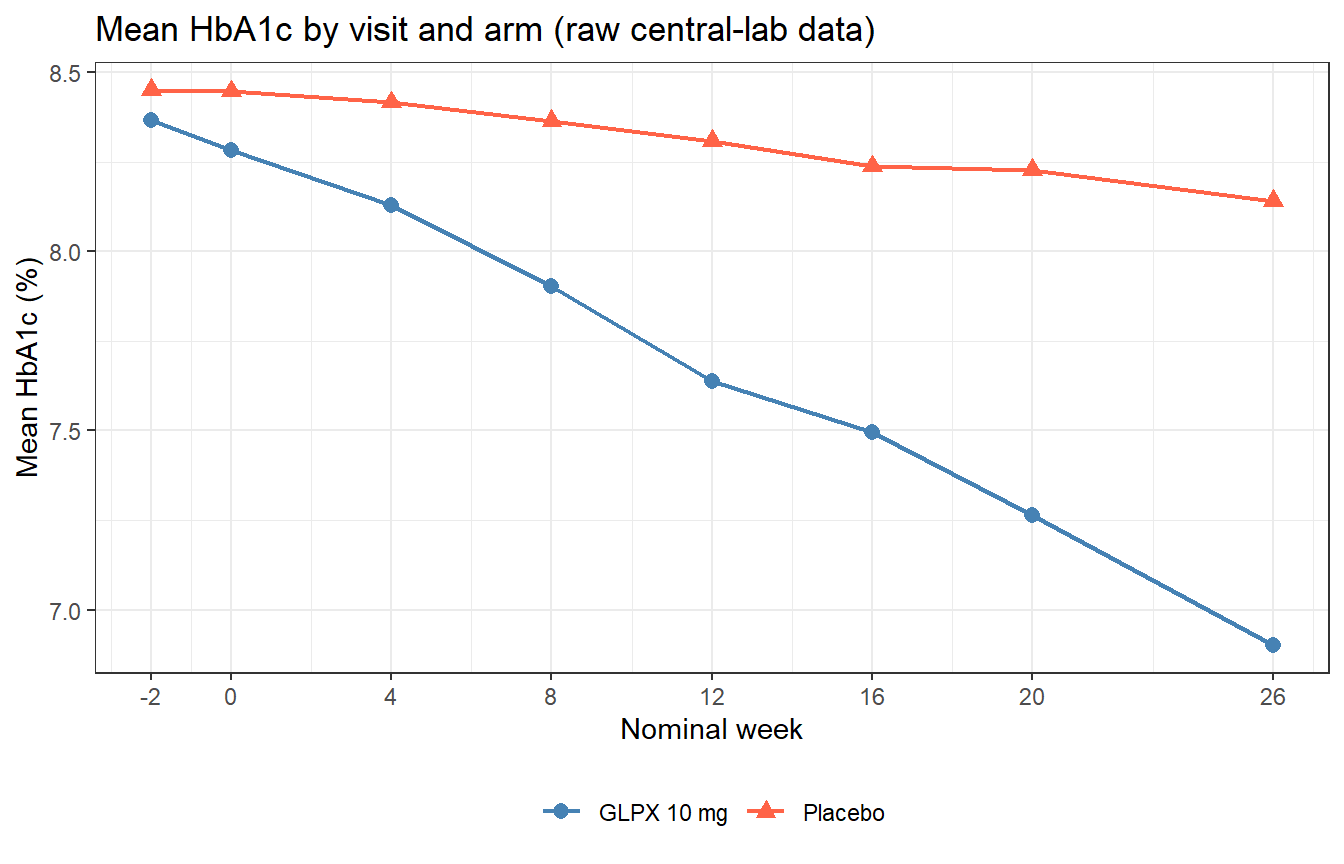
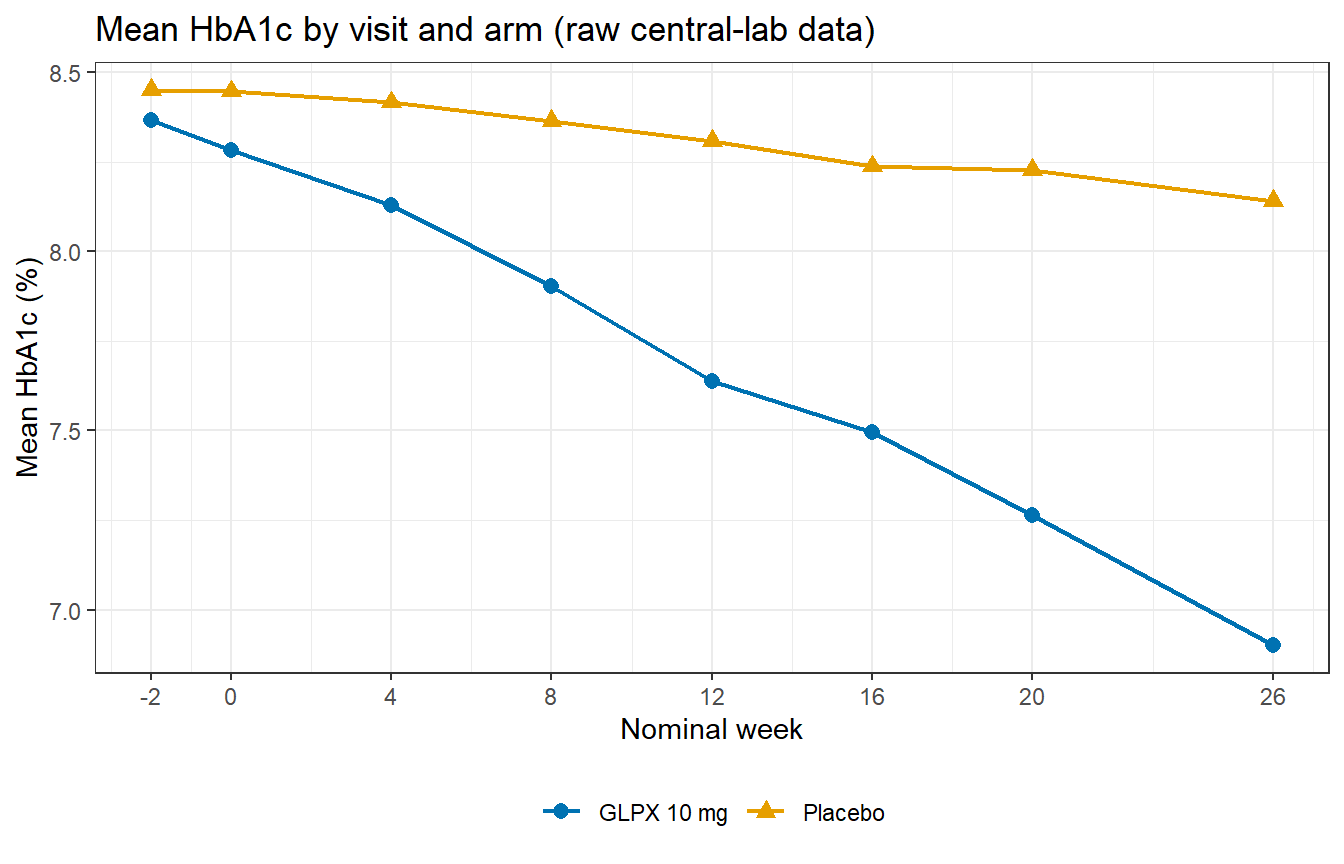
Give the course its own colourblind-safe palette
Replace the reference course's steelblue/tomato with an Okabe-Ito
categorical palette, defined once in R/palette.R and sourced by every
figure. Roughly 8% of the audience cannot reliably separate red from
green, and later forest plots and TLF shells lean on colour to carry
meaning, so this is correctness rather than taste.

A palette, not a theme: figures keep the plain cosmo / theme_bw() look,
no custom SCSS. Arms are drawn blue/orange (the highest-contrast
accessible Okabe-Ito pair) and are also encoded by shape, so identity
never rests on colour alone. viridis is designated for continuous scales
when the first one appears.

The one existing figure (HbA1c means by arm in The Trial) is moved onto
arm_colours; why-standards has no figure.

diff --git a/docs/sessions/the-trial-glpx001.html b/docs/sessions/the-trial-glpx001.html
@@ -879,17 +879,16 @@ Tip
 <span id="cb15-8"><a href="#cb15-8" aria-hidden="true" tabindex="-1"></a>  <span class="fu">ggplot</span>(<span class="fu">aes</span>(<span class="at">x =</span> week, <span class="at">y =</span> mean_hba1c, <span class="at">colour =</span> ARM, <span class="at">shape =</span> ARM)) <span class="sc">+</span></span>
 <span id="cb15-9"><a href="#cb15-9" aria-hidden="true" tabindex="-1"></a>  <span class="fu">geom_line</span>(<span class="at">linewidth =</span> <span class="fl">0.8</span>) <span class="sc">+</span></span>
 <span id="cb15-10"><a href="#cb15-10" aria-hidden="true" tabindex="-1"></a>  <span class="fu">geom_point</span>(<span class="at">size =</span> <span class="fl">2.5</span>) <span class="sc">+</span></span>
-<span id="cb15-11"><a href="#cb15-11" aria-hidden="true" tabindex="-1"></a>  <span class="fu">scale_colour_manual</span>(<span class="at">values =</span> <span class="fu">c</span>(<span class="st">"GLPX 10 mg"</span> <span class="ot">=</span> <span class="st">"steelblue"</span>,</span>
-<span id="cb15-12"><a href="#cb15-12" aria-hidden="true" tabindex="-1"></a>                                 <span class="st">"Placebo"</span>    <span class="ot">=</span> <span class="st">"tomato"</span>)) <span class="sc">+</span></span>
-<span id="cb15-13"><a href="#cb15-13" aria-hidden="true" tabindex="-1"></a>  <span class="fu">scale_x_continuous</span>(<span class="at">breaks =</span> <span class="fu">c</span>(<span class="sc">-</span><span class="dv">2</span>, <span class="dv">0</span>, <span class="dv">4</span>, <span class="dv">8</span>, <span class="dv">12</span>, <span class="dv">16</span>, <span class="dv">20</span>, <span class="dv">26</span>)) <span class="sc">+</span></span>
-<span id="cb15-14"><a href="#cb15-14" aria-hidden="true" tabindex="-1"></a>  <span class="fu">labs</span>(</span>
-<span id="cb15-15"><a href="#cb15-15" aria-hidden="true" tabindex="-1"></a>    <span class="at">title  =</span> <span class="st">"Mean HbA1c by visit and arm (raw central-lab data)"</span>,</span>
-<span id="cb15-16"><a href="#cb15-16" aria-hidden="true" tabindex="-1"></a>    <span class="at">x      =</span> <span class="st">"Nominal week"</span>,</span>
-<span id="cb15-17"><a href="#cb15-17" aria-hidden="true" tabindex="-1"></a>    <span class="at">y      =</span> <span class="st">"Mean HbA1c (%)"</span>,</span>
-<span id="cb15-18"><a href="#cb15-18" aria-hidden="true" tabindex="-1"></a>    <span class="at">colour =</span> <span class="cn">NULL</span>, <span class="at">shape =</span> <span class="cn">NULL</span></span>
-<span id="cb15-19"><a href="#cb15-19" aria-hidden="true" tabindex="-1"></a>  ) <span class="sc">+</span></span>
-<span id="cb15-20"><a href="#cb15-20" aria-hidden="true" tabindex="-1"></a>  <span class="fu">theme_bw</span>() <span class="sc">+</span></span>
-<span id="cb15-21"><a href="#cb15-21" aria-hidden="true" tabindex="-1"></a>  <span class="fu">theme</span>(<span class="at">legend.position =</span> <span class="st">"bottom"</span>)</span></code></pre></div><button title="Copy to Clipboard" class="code-copy-button"><i class="bi"></i></button></div>
+<span id="cb15-11"><a href="#cb15-11" aria-hidden="true" tabindex="-1"></a>  <span class="fu">scale_colour_manual</span>(<span class="at">values =</span> arm_colours) <span class="sc">+</span></span>
+<span id="cb15-12"><a href="#cb15-12" aria-hidden="true" tabindex="-1"></a>  <span class="fu">scale_x_continuous</span>(<span class="at">breaks =</span> <span class="fu">c</span>(<span class="sc">-</span><span class="dv">2</span>, <span class="dv">0</span>, <span class="dv">4</span>, <span class="dv">8</span>, <span class="dv">12</span>, <span class="dv">16</span>, <span class="dv">20</span>, <span class="dv">26</span>)) <span class="sc">+</span></span>
+<span id="cb15-13"><a href="#cb15-13" aria-hidden="true" tabindex="-1"></a>  <span class="fu">labs</span>(</span>
+<span id="cb15-14"><a href="#cb15-14" aria-hidden="true" tabindex="-1"></a>    <span class="at">title  =</span> <span class="st">"Mean HbA1c by visit and arm (raw central-lab data)"</span>,</span>
+<span id="cb15-15"><a href="#cb15-15" aria-hidden="true" tabindex="-1"></a>    <span class="at">x      =</span> <span class="st">"Nominal week"</span>,</span>
+<span id="cb15-16"><a href="#cb15-16" aria-hidden="true" tabindex="-1"></a>    <span class="at">y      =</span> <span class="st">"Mean HbA1c (%)"</span>,</span>
+<span id="cb15-17"><a href="#cb15-17" aria-hidden="true" tabindex="-1"></a>    <span class="at">colour =</span> <span class="cn">NULL</span>, <span class="at">shape =</span> <span class="cn">NULL</span></span>
+<span id="cb15-18"><a href="#cb15-18" aria-hidden="true" tabindex="-1"></a>  ) <span class="sc">+</span></span>
+<span id="cb15-19"><a href="#cb15-19" aria-hidden="true" tabindex="-1"></a>  <span class="fu">theme_bw</span>() <span class="sc">+</span></span>
+<span id="cb15-20"><a href="#cb15-20" aria-hidden="true" tabindex="-1"></a>  <span class="fu">theme</span>(<span class="at">legend.position =</span> <span class="st">"bottom"</span>)</span></code></pre></div><button title="Copy to Clipboard" class="code-copy-button"><i class="bi"></i></button></div>
 <div class="cell-output-display">
 <div>
 <figure class="figure">